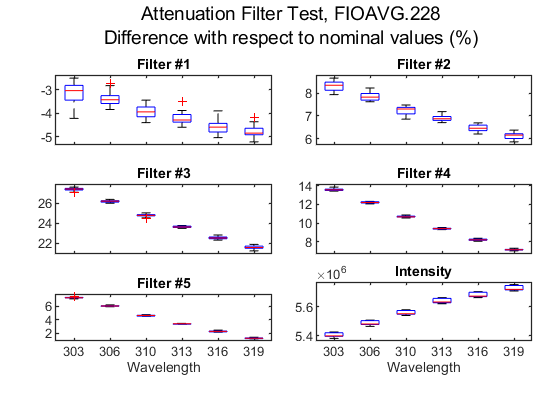
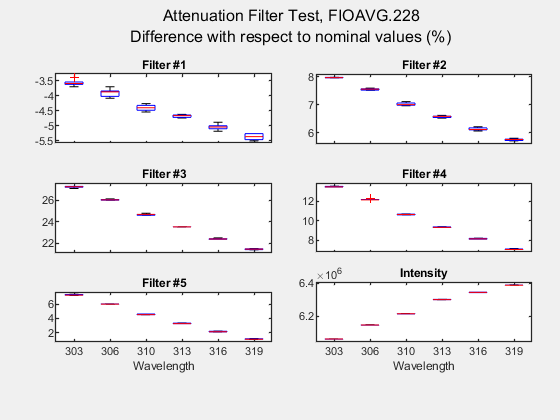
TC with last days

diff --git a/latex/228/html/cal_report_228a2.html b/latex/228/html/cal_report_228a2.html
@@ -6,7 +6,7 @@
    <!--
 This HTML was auto-generated from MATLAB code.
 To make changes, update the MATLAB code and republish this document.
-      --><title>cal_report_228a2</title><meta name="generator" content="MATLAB 9.4"><link rel="schema.DC" href="http://purl.org/dc/elements/1.1/"><meta name="DC.date" content="2019-06-25"><meta name="DC.source" content="cal_report_228a2.m"><style type="text/css">
+      --><title>cal_report_228a2</title><meta name="generator" content="MATLAB 9.4"><link rel="schema.DC" href="http://purl.org/dc/elements/1.1/"><meta name="DC.date" content="2019-06-26"><meta name="DC.source" content="cal_report_228a2.m"><style type="text/css">
 html,body,div,span,applet,object,iframe,h1,h2,h3,h4,h5,h6,p,blockquote,pre,a,abbr,acronym,address,big,cite,code,del,dfn,em,font,img,ins,kbd,q,s,samp,small,strike,strong,sub,sup,tt,var,b,u,i,center,dl,dt,dd,ol,ul,li,fieldset,form,label,legend,table,caption,tbody,tfoot,thead,tr,th,td{margin:0;padding:0;border:0;outline:0;font-size:100%;vertical-align:baseline;background:transparent}body{line-height:1}ol,ul{list-style:none}blockquote,q{quotes:none}blockquote:before,blockquote:after,q:before,q:after{content:'';content:none}:focus{outine:0}ins{text-decoration:none}del{text-decoration:line-through}table{border-collapse:collapse;border-spacing:0}
 
 html { min-height:100%; margin-bottom:1px; }
@@ -66,7 +66,7 @@ table td { padding:7px 5px; text-align:left; vertical-align:top; border:1px soli
 
 
 
-  </style></head><body><div class="content"><h2>Contents</h2><div><ul><li><a href="#2">Brewer Setup</a></li><li><a href="#3">configuration files</a></li><li><a href="#4">Temperature dependence.  During campaign</a></li><li><a href="#9">Check previous results</a></li><li><a href="#10">SL summary from bfiles temperature</a></li><li><a href="#13">Check changes</a></li><li><a href="#15">Latex stuff</a></li><li><a href="#16">Filter attenuation</a></li></ul></div><pre class="codeinput"><span class="comment">% options_pub.outputDir=fullfile(pwd,'latex','228','html'); options_pub.showCode=true;</span>
+  </style></head><body><div class="content"><h2>Contents</h2><div><ul><li><a href="#2">Brewer Setup</a></li><li><a href="#3">configuration files</a></li><li><a href="#4">Temperature dependence.  During campaign</a></li><li><a href="#9">Check previous results</a></li><li><a href="#10">SL summary from bfiles temperature</a></li><li><a href="#14">Latex stuff</a></li><li><a href="#15">Filter attenuation</a></li></ul></div><pre class="codeinput"><span class="comment">% options_pub.outputDir=fullfile(pwd,'latex','228','html'); options_pub.showCode=true;</span>
 <span class="comment">% publish(fullfile(pwd,'cal_report_228a2.m'),options_pub);</span>
 </pre><h2 id="2">Brewer Setup</h2><pre class="codeinput">clear <span class="string">all</span>;
 
@@ -90,12 +90,20 @@ mkdir(Cal.dir_figs);
 
 load(Cal.file_save,<span class="string">'temperature'</span>);
 load(Cal.file_save,<span class="string">'filter'</span>);
-</pre><pre class="codeoutput">ans =
-  1&times;1 cell array
-    {'IZO#185'}
+</pre><pre class="codeoutput">
 ans =
+
+  1&times;1 cell array
+
+    {'IZO#185'}
+
+
+ans =
+
   20&times;9 cell array
+
   Columns 1 through 5
+
     {'TSK#005'}    {[  5]}    {[2]}    {[0]}    {'005'}
     {'IOS#017'}    {[ 17]}    {[2]}    {[0]}    {'017'}
     {'SCO#033'}    {[ 33]}    {[2]}    {[0]}    {'033'}
@@ -116,8 +124,10 @@ ans =
     {'TAM#201'}    {[201]}    {[3]}    {[0]}    {'201'}
     {'DNK#202'}    {[202]}    {[3]}    {[0]}    {'202'}
     {'DNK#228'}    {[228]}    {[3]}    {[0]}    {'228'}
+
   Columns 6 through 9
-    {'..\005\ICF15117&#8230;'}    {'..\005\ICF15117&#8230;'}    {'1838'}    {'1838'}
+
+    {'..\005\ICF15117&#8230;'}    {'..\005\ICF17219&#8230;'}    {'1838'}    {'1838'}
     {'..\017\ICF14919&#8230;'}    {'..\017\ICF14919&#8230;'}    {'1680'}    {'1680'}
     {'..\033\ICF15617&#8230;'}    {'..\033\IOS15617&#8230;'}    {'2325'}    {'2325'}
     {'..\070\ICF15617&#8230;'}    {'..\070\IOS15617&#8230;'}    {'1685'}    {'1685'}
@@ -127,7 +137,7 @@ ans =
     {'..\150\ICF15617&#8230;'}    {'..\150\ICF15617&#8230;'}    {'0322'}    {'0322'}
     {'..\151\ICF15317&#8230;'}    {'..\151\IOS15317&#8230;'}    {'1880'}    {'1880'}
     {'..\158\ICF21218&#8230;'}    {'..\158\ICF21218&#8230;'}    {'0558'}    {'0558'}
-    {'..\163\ICF23318&#8230;'}    {'..\163\ICF23318&#8230;'}    {'0274'}    {'0274'}
+    {'..\163\ICF21018&#8230;'}    {'..\163\ICF17519&#8230;'}    {'0274'}    {'0274'}
     {'..\166\ICF15217&#8230;'}    {'..\166\ICF17419&#8230;'}    {'1955'}    {'1955'}
     {'..\172\ICF15117&#8230;'}    {'..\172\ICF15117&#8230;'}    {'0444'}    {'0444'}
     {'..\174\ICF20718&#8230;'}    {'..\174\ICF20718&#8230;'}    {'0605'}    {'0605'}
@@ -136,7 +146,8 @@ ans =
     {'..\190\ICF11419&#8230;'}    {'..\190\ICF11419&#8230;'}    {'0410'}    {'0410'}
     {'..\201\ICF14315&#8230;'}    {'..\201\ICF14315&#8230;'}    {'0320'}    {'0320'}
     {'..\202\ICF15017&#8230;'}    {'..\202\ICF15017&#8230;'}    {'0270'}    {'0270'}
-    {'..\228\ICF15017&#8230;'}    {'..\228\ICF17319&#8230;'}    {'0242'}    {'0242'}
+    {'..\228\ICF15017&#8230;'}    {'..\228\ICF17419&#8230;'}    {'0242'}    {'0242'}
+
 </pre><h2 id="3">configuration files</h2><pre class="codeinput">close <span class="string">all</span>;
 
 [config_def,TCdef,DTdef,ETCdef,A1def,ATdef]=read_icf(Cal.brw_config_files{Cal.n_inst,2});
@@ -147,8 +158,11 @@ config_temp.brw_name=Cal.brw_name{Cal.n_inst};
 config_temp.final_days=Cal.Date.FINAL_DAYS(1);
 
 NTC={}; tabla_regress={}; ajuste={}; Args={};
-</pre><pre class="codeoutput">ans =
-    '22-Jun-2019'
+</pre><pre class="codeoutput">
+ans =
+
+    '23-Jun-2019'
+
 </pre><h2 id="4">Temperature dependence.  During campaign</h2><pre class="codeinput">[sl_rw,tc]=readb_sl_rawl(fullfile(<span class="string">'.'</span>,<span class="string">'bfiles'</span>,[<span class="string">'B*.'</span>,Cal.brw_str{Cal.n_inst}]));<span class="comment">% cambio nombres para poder seguir</span>
 
 <span class="keyword">if</span> ~isnan(sl_rw)
@@ -166,22 +180,22 @@ List of arguments given default values:
    'TCB'    defaults to []
    'N_TC'    defaults to []
 --------------------------------------
- ORIG MS9:   305 +/- 1  1.2 +/- 0.04  
-  NEW MS9:   305 +/- 3  0.1 +/- 0.10  
+ ORIG MS9:   304 +/- 1  1.3 +/- 0.03  
+  NEW MS9:   303 +/- 2  -0.1 +/- 0.08  
 </pre><img vspace="5" hspace="5" src="cal_report_228a2_01.png" alt=""> <img vspace="5" hspace="5" src="cal_report_228a2_02.png" alt=""> <img vspace="5" hspace="5" src="cal_report_228a2_03.png" alt=""> <img vspace="5" hspace="5" src="cal_report_228a2_04.png" alt=""> <pre class="codeinput">    makeHtmlTable([ajuste{1}.cero(:,[1 3]) ajuste{1}.cero(:,[2 4])],[],<span class="keyword">...</span>
         {<span class="string">'slit#2'</span>,<span class="string">'slit#3'</span>,<span class="string">'slit#4'</span>,<span class="string">'slit#5'</span>,<span class="string">'slit#6'</span>,<span class="string">'R5'</span>,<span class="string">'R6'</span>},{<span class="string">'a'</span>,<span class="string">'a SE'</span>,<span class="string">'b'</span>,<span class="string">'b SE'</span>},[],4);
 </pre><table border="1" cellpadding="4" cellspacing="0">
 <tr><td></td><td>a</td><td>a SE</td><td>b</td><td>b SE</td></tr>
-<tr><td>slit#2</td><td>6.165e+04</td><td>4.302</td><td>-7.715</td><td>0.1634</td></tr>
-<tr><td>slit#3</td><td>6.234e+04</td><td>4.759</td><td>-7.46</td><td>0.1807</td></tr>
-<tr><td>slit#4</td><td>6.319e+04</td><td>5.289</td><td>-7.479</td><td>0.2009</td></tr>
-<tr><td>slit#5</td><td>6.363e+04</td><td>5.663</td><td>-7.481</td><td>0.2151</td></tr>
-<tr><td>slit#6</td><td>6.408e+04</td><td>6.104</td><td>-7.466</td><td>0.2318</td></tr>
-<tr><td>R5</td><td>541.8</td><td>4.749</td><td>0.2061</td><td>0.1804</td></tr>
-<tr><td>R6</td><td>304.8</td><td>2.596</td><td>0.01306</td><td>0.09861</td></tr>
+<tr><td>slit#2</td><td>6.164e+04</td><td>3.586</td><td>-7.572</td><td>0.1361</td></tr>
+<tr><td>slit#3</td><td>6.233e+04</td><td>3.861</td><td>-7.244</td><td>0.1466</td></tr>
+<tr><td>slit#4</td><td>6.318e+04</td><td>4.12</td><td>-7.221</td><td>0.1564</td></tr>
+<tr><td>slit#5</td><td>6.362e+04</td><td>4.392</td><td>-7.134</td><td>0.1667</td></tr>
+<tr><td>slit#6</td><td>6.407e+04</td><td>4.732</td><td>-7.225</td><td>0.1796</td></tr>
+<tr><td>R5</td><td>538.7</td><td>3.926</td><td>0.3131</td><td>0.149</td></tr>
+<tr><td>R6</td><td>303.4</td><td>2.218</td><td>0.06904</td><td>0.0842</td></tr>
 </table><pre class="codeinput">    makeHtmlTable(NTC{1});
 </pre><table border="1" cellpadding="4" cellspacing="0">
-<tr><td>0</td><td>-0.25</td><td>-0.24</td><td>-0.23</td><td>-0.25</td></tr>
+<tr><td>0</td><td>-0.33</td><td>-0.35</td><td>-0.44</td><td>-0.35</td></tr>
 </table><pre class="codeinput"><span class="keyword">else</span>
     Fr=NaN*ones(1,9);
     ajuste{1}.orig=NaN*ones(7,4);
@@ -232,10 +246,14 @@ List of arguments given default values:
 </pre><img vspace="5" hspace="5" src="cal_report_228a2_05.png" alt=""> <img vspace="5" hspace="5" src="cal_report_228a2_06.png" alt=""> <img vspace="5" hspace="5" src="cal_report_228a2_07.png" alt=""> <img vspace="5" hspace="5" src="cal_report_228a2_08.png" alt=""> <img vspace="5" hspace="5" src="cal_report_228a2_09.png" alt=""> <pre class="codeinput">tc_reg_table=makeHtml_Table([ajuste{2}.cero(:,[1 3]) ajuste{2}.cero(:,[2 4])],[],<span class="keyword">...</span>
         {<span class="string">'slit#2'</span>,<span class="string">'slit#3'</span>,<span class="string">'slit#4'</span>,<span class="string">'slit#5'</span>,<span class="string">'slit#6'</span>,<span class="string">'R5'</span>,<span class="string">'R6'</span>},{<span class="string">'a'</span>,<span class="string">'a SE'</span>,<span class="string">'b'</span>,<span class="string">'b SE'</span>},[],4)
 temperature{Cal.n_inst}.regression_table=tc_reg_table;
-</pre><pre class="codeoutput">tc_reg_table =
+</pre><pre class="codeoutput">
+tc_reg_table =
+
   7&times;4 table
+
                 a         aSE          b          bSE   
               ______    _______    _________    ________
+
     slit_2     54603     1.1682      -20.854    0.066076
     slit_3     55285     1.2393      -20.846    0.070103
     slit_4     56075     1.3054      -21.142    0.073841
@@ -243,14 +261,13 @@ temperature{Cal.n_inst}.regression_table=tc_reg_table;
     slit_6     56923     1.3762      -21.512     0.07784
     R5        412.61    0.71248    -0.023929    0.040278
     R6        215.43    0.39537     -0.18406    0.022351
+
 </pre><pre class="codeinput">tc_coeff_table=makeHtml_Table(NTC{2})
 temperature{Cal.n_inst}.coeff_table=tc_coeff_table;
-</pre><pre class="codeoutput">tc_coeff_table =
-  1&times;5 table
-    M1     M2       M3      M4      M5 
-    __    _____    ____    ____    ____
-    0     -0.01    0.29    0.57    0.66
-</pre><h2 id="13">Check changes</h2><pre class="codeinput">[NTCx,ajustex,Argsx,Fraw,Forig]=temp_coeff_raw(config_temp,sl_raw{Cal.n_inst},<span class="string">'outlier_flag'</span>,1,<span class="string">'plots'</span>,0,<span class="keyword">...</span>
+
+<span class="comment">%  Check changes</span>
+ clear <span class="string">year</span>;
+[NTCx,ajustex,Argsx,Fraw,Forig]=temp_coeff_raw(config_temp,sl_raw{Cal.n_inst},<span class="string">'outlier_flag'</span>,1,<span class="string">'plots'</span>,0,<span class="keyword">...</span>
                                 <span class="string">'N_TC'</span>,TCorig(1:5)',<span class="string">'date_range'</span>,datenum(Cal.Date.cal_year-2,1,[Cal.calibration_days{Cal.n_inst,1}(1)]));
 
 Forigx=Forig; Fn=Fnew;
@@ -281,7 +298,17 @@ title([<span class="string">'R6 Temperature dependence Brewer#'</span>, Cal.brw_
 ylabel(<span class="string">'Standard Lamp R6 ratio'</span>); xlabel(<span class="string">'Temperature'</span>); set(gca,<span class="string">'Box'</span>,<span class="string">'On'</span>);
 plot(mn(:,1),mn(:,2),<span class="string">'k.'</span>,mt(:,1),mt(:,2),<span class="string">'g.'</span>)
 robust_line
-</pre><pre class="codeoutput">--------- Validation OK --------------
+</pre><pre class="codeoutput">
+tc_coeff_table =
+
+  1&times;5 table
+
+    M1     M2       M3      M4      M5 
+    __    _____    ____    ____    ____
+
+    0     -0.01    0.29    0.57    0.66
+
+--------- Validation OK --------------
 List of arguments given default values:
    'plot_flag'    defaults to 0
    'intensity_flag'    defaults to 0
@@ -301,17 +328,32 @@ ix=sort(findobj(<span class="string">'tag'</span>,<span class="string">'TEMP_COM
 printfiles_report(ix',Cal.dir_figs,<span class="string">'aux_pattern'</span>,ix,<span class="string">'Width'</span>,12.5,<span class="string">'Height'</span>,6.5);
 
 close <span class="string">all</span>
-</pre><pre class="codeoutput">naux =
+</pre><pre class="codeoutput">
+naux =
+
      1
+
+
 figura =
+
     '228_figures_TEMP_OLD_VS_NEW_1'
+
+
 naux =
+
      2
+
+
 naux =
+
      1
+
+
 naux =
+
      1
-</pre><h2 id="15">Latex stuff</h2><pre class="codeinput"><span class="comment">% Temperature Range</span>
+
+</pre><h2 id="14">Latex stuff</h2><pre class="codeinput"><span class="comment">% Temperature Range</span>
 <span class="comment">% Para que funcione asignamos la salida Fr en la llamada a la funci&yuml;n</span>
 <span class="comment">% temp_coeff_raw donde se calculen los TC's (en este caso en {})</span>
 tmp=Fr(:,2);
@@ -360,7 +402,7 @@ tabla_regress={};
                <span class="string">'ColumnLabels'</span>,{<span class="string">'0 abscissa +/- standard error'</span>,<span class="string">'slope +/- standard error'</span>},<span class="keyword">...</span>
                <span class="string">'alignment'</span>, <span class="string">'c'</span>,<span class="string">'resize'</span>,0.8,<span class="string">'size'</span>,<span class="string">'footnotesize'</span>);
  <span class="keyword">end</span>
-</pre><h2 id="16">Filter attenuation</h2><pre class="codeinput">[ETC_FILTER_CORRECTION,media_fi,fi,fi_avg]=filter_rep(Cal.brw_str{Cal.n_inst},<span class="keyword">...</span>
+</pre><h2 id="15">Filter attenuation</h2><pre class="codeinput">[ETC_FILTER_CORRECTION,media_fi,fi,fi_avg]=filter_rep(Cal.brw_str{Cal.n_inst},<span class="keyword">...</span>
                              <span class="string">'date_range'</span>,datenum(Cal.Date.cal_year-4,1,1),<span class="keyword">...</span>
                              <span class="string">'outlier_flag'</span>,1,<span class="string">'plot_flag'</span>,0,<span class="string">'config'</span>,config_orig(17:22));
 
@@ -403,13 +445,17 @@ List of arguments given default values:
    'path_to_file'    defaults to .
 --------------------------------------
   Columns 1 through 4
-    [          -3]    [       -12]    [         -15]    [        -12]
-    [         0.4]    [       0.1]    [       -13.6]    [      -14.7]
-    '[-15.5 16.6]'    '[-22 27.1]'    '[-47.3 17.2]'    '[-35.5 7.3]'
+
+    [       5]    [         -4]    [         -20]    [          -9]
+    [  4.9000]    [    -6.7000]    [    -14.8000]    [    -15.5000]
+    '[1.7 12]'    '[-12.1 1.9]'    '[-25.2 -3.4]'    '[-24.2 -9.4]'
+
   Column 5
-    [         -7]
-    [      -15.3]
-    '[-46.5 7.2]'
+
+    [        -8]
+    [  -13.3000]
+    '[-23 -4.8]'
+
 </pre><img vspace="5" hspace="5" src="cal_report_228a2_12.png" alt=""> <img vspace="5" hspace="5" src="cal_report_228a2_13.png" alt=""> <img vspace="5" hspace="5" src="cal_report_228a2_14.png" alt=""> <img vspace="5" hspace="5" src="cal_report_228a2_15.png" alt=""> <img vspace="5" hspace="5" src="cal_report_228a2_16.png" alt=""> <img vspace="5" hspace="5" src="cal_report_228a2_17.png" alt=""> <pre class="codeinput">fprintf(<span class="string">'\nFI''s analyzed: %d\n'</span>,NFI);
 fi_mean_table=display_table([fix(media_fi);fix(mean(media_fi))],label_2,10,<span class="string">'.5g'</span>,label_1)
 filter{Cal.n_inst}.mean_table=fi_mean_table;
@@ -433,26 +479,36 @@ save(Cal.file_save,<span class="string">'-APPEND'</span>,<span class="string">'f
      printfiles_report(ff',Cal.dir_figs,<span class="string">'Width'</span>,17,<span class="string">'Height'</span>,9);
  <span class="keyword">end</span>
 </pre><pre class="codeoutput">
-FI's analyzed: 16
+FI's analyzed: 6
+
 fi_mean_table =
+
   7&times;5 table
+
               filter_1    filter_2    filter_3    filter_4    filter_5
               ________    ________    ________    ________    ________
-    slit_0      4848       10834       19113       22707       26824  
-    slit_1      4829       10782       18932       22438       26517  
-    slit_2      4803       10730       18720       22132       26162  
-    slit_3      4785       10688       18545       21880       25856  
-    slit_4      4770       10646       18382       21642       25573  
-    slit_5      4757       10616       18240       21431       25314  
-    mean        4798       10716       18655       22038       26041  
+
+    slit_0      4820       10797       19092       22699       26806  
+    slit_1      4806       10756       18908       22432       26495  
+    slit_2      4780       10701       18705       22129       26133  
+    slit_3      4767       10659       18530       21862       25824  
+    slit_4      4748       10612       18360       21626       25541  
+    slit_5      4732       10576       18219       21405       25281  
+    mean        4775       10683       18635       22025       26013  
+
+
 fi_etc_table =
+
   4&times;5 table
+
                              filter_1    filter_2    filter_3    filter_4    filter_5
                              ________    ________    ________    ________    ________
-    ETCFilt_Corr__median_         -3          -12        -15         -12          -7 
-    ETCFilt_Corr__mean_       0.4494     0.099108    -13.554     -14.662     -15.341 
-    ETCFilt_Corr__CI_        -15.481      -22.002    -47.262     -35.519     -46.465 
-    ETCFilt_Corr__CI__1       16.553       27.113     17.227      7.3418       7.232 
+
+    ETCFilt_Corr__median_          5          -4         -20          -9          -8 
+    ETCFilt_Corr__mean_       4.9427     -6.6698     -14.827     -15.505     -13.308 
+    ETCFilt_Corr__CI_            1.7      -12.15      -25.16     -24.183     -23.033 
+    ETCFilt_Corr__CI__1       11.967       1.875       -3.38     -9.4333     -4.7667 
+
 </pre><img vspace="5" hspace="5" src="cal_report_228a2_18.png" alt=""> <img vspace="5" hspace="5" src="cal_report_228a2_19.png" alt=""> <img vspace="5" hspace="5" src="cal_report_228a2_20.png" alt=""> <img vspace="5" hspace="5" src="cal_report_228a2_21.png" alt=""> <pre class="codeinput">close <span class="string">all</span>
 </pre><p class="footer"><br><a href="https://www.mathworks.com/products/matlab/">Published with MATLAB&reg; R2018a</a><br></p></div><!--
 ##### SOURCE BEGIN #####
@@ -579,7 +635,8 @@ temperature{Cal.n_inst}.regression_table=tc_reg_table;
 tc_coeff_table=makeHtml_Table(NTC{2})
 temperature{Cal.n_inst}.coeff_table=tc_coeff_table;
 
-%%  Check changes
+%  Check changes 
+ clear year;
 [NTCx,ajustex,Argsx,Fraw,Forig]=temp_coeff_raw(config_temp,sl_raw{Cal.n_inst},'outlier_flag',1,'plots',0,...
                                 'N_TC',TCorig(1:5)','date_range',datenum(Cal.Date.cal_year-2,1,[Cal.calibration_days{Cal.n_inst,1}(1)]));
 
